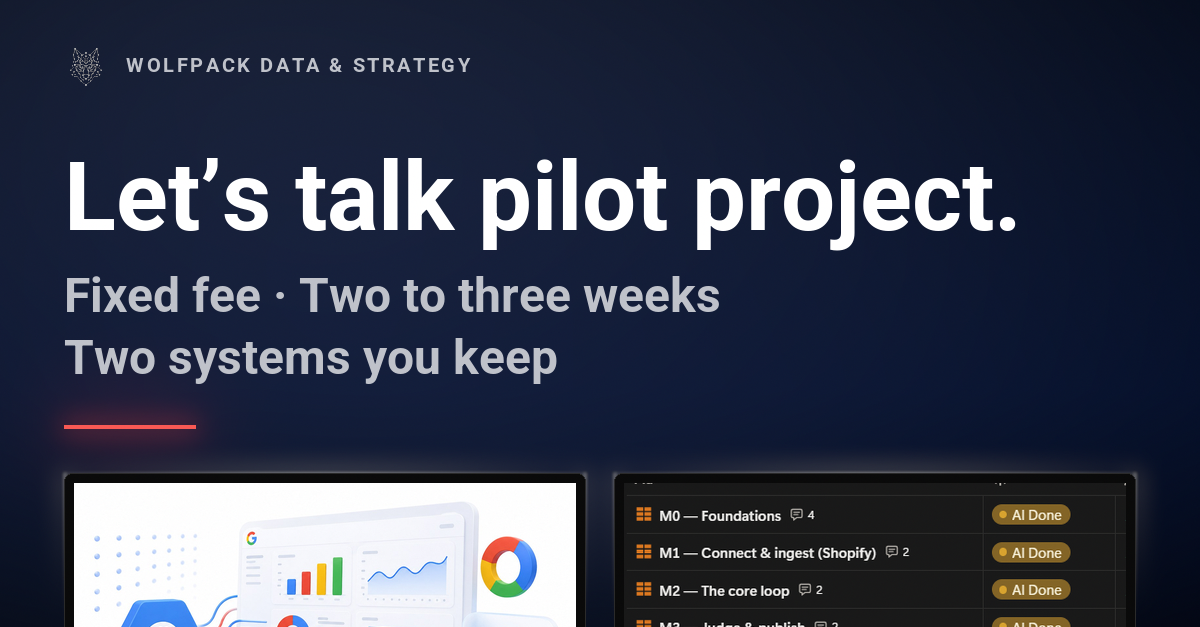
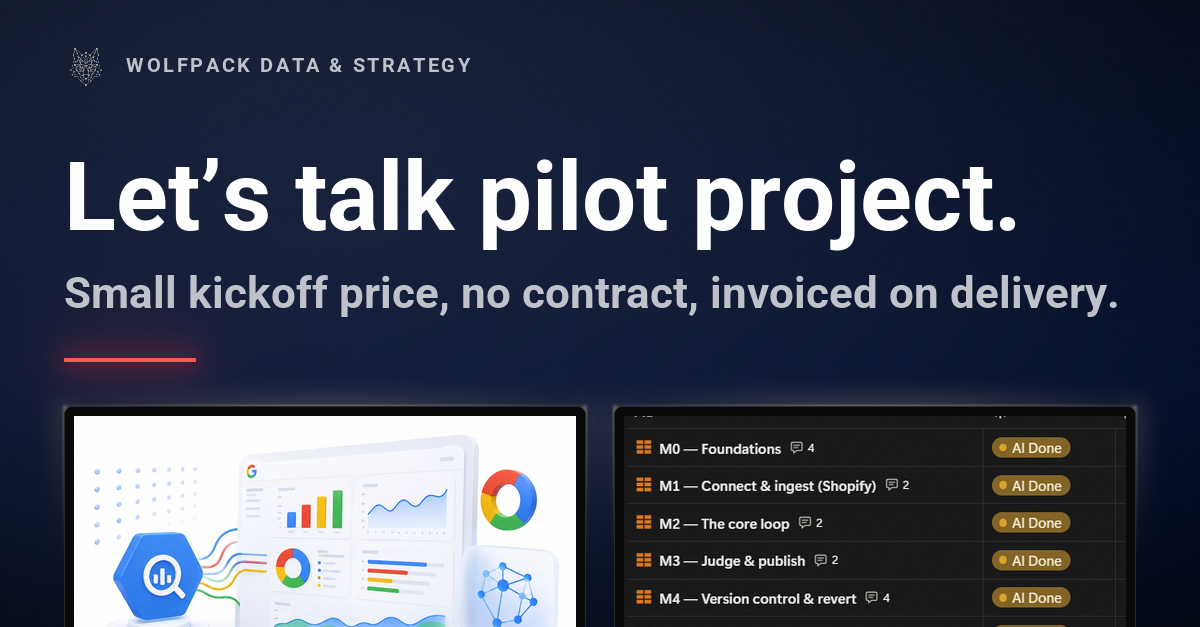
fix(pilot): "hours per week" copy, #296 ruling recorded, pilot card rebuilt with Ry's subtitle (#297) (#298)
Refs #296, #297

Changed region(s): [[0.0308, 0.6061, 0.9558, 1.0], [0.0617, 0.4242, 0.925, 0.5152], [0.0308, 0.5455, 0.4625, 0.6061]]

diff --git a/rates/index.html b/rates/index.html
@@ -145,8 +145,8 @@
             <li><strong>$500 to get started.</strong> The kickoff fee covers your first 6 hours.</li>
             <li><strong>$85 / hour after that</strong> — the pilot rate, billed once at the end of the 30 calendar days.</li>
             <li><strong>You set the ceiling.</strong> Cap the hours, name a deliverable, or both. Past the 6 hours the kickoff covers, there is no minimum.</li>
-            <li><strong>10–20 hours a week is the recommendation</strong> — the range where a significant deliverable or a working system actually gets built inside the window.</li>
-            <li><strong>What that looks like:</strong> 10 hours a week for 30 days works out to about <strong>$2,900</strong> billed at the end.</li>
+            <li><strong>10–20 hours per week is the recommendation</strong> — the range where a significant deliverable or a working system actually gets built inside the window.</li>
+            <li><strong>What that looks like:</strong> 10 hours per week for 30 days works out to about <strong>$2,900</strong> billed at the end.</li>
             <li><strong>Day 31 is an open door.</strong> Roll into a project tier, keep going hourly as needed, or stop — no obligation.</li>
           </ul>
           <p class="pilot__cta"><a class="btn btn--ghost" href="https://intake.wolfstrategyllc.com/pilot-project/">See the pilot project</a></p>

diff --git a/pilot-project/index.html b/pilot-project/index.html
@@ -101,8 +101,8 @@
         <li><strong>$500 to get started.</strong> The kickoff fee covers your first 6 hours.</li>
         <li><strong>$85 an hour after that</strong> &mdash; the pilot rate, billed once at the end of the 30 calendar days.</li>
         <li><strong>You set the ceiling.</strong> Cap the hours, name a deliverable, or both. Past the 6 hours the kickoff covers, there is no minimum.</li>
-        <li><strong>10&ndash;20 hours a week is the recommendation</strong> &mdash; the range where a significant deliverable or a working system actually gets built inside the window.</li>
-        <li><strong>What that looks like:</strong> 10 hours a week for 30 days works out to about <strong>$2,900</strong> billed at the end.</li>
+        <li><strong>10&ndash;20 hours per week is the recommendation</strong> &mdash; the range where a significant deliverable or a working system actually gets built inside the window.</li>
+        <li><strong>What that looks like:</strong> 10 hours per week for 30 days works out to about <strong>$2,900</strong> billed at the end.</li>
         <li><strong>Day 31 is an open door.</strong> Roll into a project tier, keep going hourly as needed, or stop &mdash; no obligation.</li>
       </ul>
     </div>

diff --git a/social-cards/build_cards.py b/social-cards/build_cards.py
@@ -744,24 +744,18 @@ CARDS = [
         # holds, and it is why no fee has ever forced a rebuild here: a price
         # change is a one-line HTML edit.
         #
-        # BUT THIS SUBTITLE IS STALE AS OF 2026-09-06, KNOWINGLY. The offer moved
-        # off the fixed fee to a $500 kickoff covering the first 6 hours, then
-        # $85/hr, over 30 calendar days, and the rates pages no longer list what
-        # the pilot includes. Two of the three phrases below are now false, and
-        # the third ("Two systems you keep") is no longer the page's claim about
-        # what the money buys. A-5 ruled on a FEE change, not a MODEL change, so
-        # it does not cover this one.
-        #
-        # The card is left alone deliberately, awaiting Ry's call on a new
-        # subtitle; a rebuild is then one run of this script. Until that call,
-        # DO NOT edit the page's og:image:alt either -- alt text describes the
-        # card's PIXELS, so moving it before the art moves makes it false (the
-        # hire/ standing since #230). See docs/pilot-project-design-plan.md
-        # (P-001) and CLAUDE.md's pilot-project section.
+        # REBUILT 2026-09-06 with the subtitle Ry named in wp-website#297 after the
+        # offer moved from a fixed fee to a $500 kickoff, $85/hr after six covered
+        # hours, over 30 calendar days. The previous subtitle ("Fixed fee · Two to
+        # three weeks · Two systems you keep") had gone false with the model; A-5
+        # still holds -- the new line names no price, so a fee change stays an HTML
+        # edit. The insets and the title did not change, so og:image:alt (which
+        # describes the pixels) did not need to move. Ledger: P-001/P-002 in
+        # docs/pilot-project-design-plan.md.
         "out": "pilot-project/img/og-pilot-project.png",
         "logo": "pilot-project/img/wolfpack-logo.png",
         "title": "Let’s talk pilot project.",
-        "subtitle": "Fixed fee · Two to three weeks · Two systems you keep",
+        "subtitle": "Small kickoff price, no contract, invoiced on delivery.",
         "max_lines": 2,
         # Both are screenshots and keep framed()'s top anchor — the top of an
         # application window is what identifies it. BQL crops centrally (its

diff --git a/docs/pilot-project-design-plan.md b/docs/pilot-project-design-plan.md
@@ -34,7 +34,7 @@ to it, and the rules the old shape needed are retired with it.
 - **The client sets the ceiling** — cap the hours, name a deliverable, or both; past the 6
   covered hours there is no minimum. This is the page's **new spine**, replacing "one problem,
   scoped together".
-- **10–20 hours a week is the recommendation**, not a commitment.
+- **10–20 hours per week is the recommendation**, not a commitment.
 - **~$2,900** (10 hrs/wk for 30 days) is the **only total-shaped figure allowed anywhere on
   this page**, and it is explicitly an example. There is no total pilot price.
 - **Day 31 is an open door** — roll into a project tier, keep going hourly as needed, or stop.
@@ -78,12 +78,22 @@ heading **"Inside the 30 days"**, and promises no fixed duration of build. The t
 keep their own section: the page still needs an example mapping to neither of them, which only
 means something if the reader knows what they are.
 
-### Open item — the social card is now stale by one ruling
+### Open item — RESOLVED 2026-09-06 (P-002)
 
-`pilot-project/img/og-pilot-project.png` bakes in the subtitle
-**"Fixed fee · Two to three weeks · Two systems you keep"**. Two of those three are now false.
-The card is **untouched by this ruling** — P-001 changed the offer, not the art, and the
-`hire/` standing applies: `og:image:alt` describes the card's *pixels*, so it must not move
-until the art does. A rebuild is one `social-cards/build_cards.py` run once Ry approves a new
-subtitle. **Flagged for Ry — the last place on this property still advertising the old
-model.**
+`pilot-project/img/og-pilot-project.png` baked in the subtitle *"Fixed fee · Two to three weeks ·
+Two systems you keep"*, two of which went false with P-001. Left alone at first (the ruling that the
+card carries no price was about a fee change, not a model change), flagged as wp-website#297, and
+**rebuilt the same day** by `social-cards/build_cards.py` with the subtitle Ry named on #297. The
+insets and the title did not change, so `og:image:alt` (which describes the pixels) stayed put.
+
+## P-002 — two rulings on #296 and #297 (Ry, 2026-09-06)
+
+- **The worked example stays "about $2,900"** (wp-website#296). Read literally, 30 calendar days at
+  10 hours per week is ~42.9 hours, ~36.9 billable — a higher total; the copy follows the 4-week
+  derivation (40 hrs · 6 covered · 34 × $85 = $2,890). Ry chose to keep the approximation and the
+  "about": *"I want to be under $3000 for pricing strategy."* Do not recompute it onto any page.
+- **Card subtitle** (wp-website#297): *"Small kickoff price, no contract, invoiced on delivery."*
+  Price-free, so the no-price-on-the-card ruling still holds and a fee change stays an HTML edit.
+- **Wording:** every "hours a week" on the pilot copy became "hours per week" (Ry, same day) —
+  on both rates pages, the pilot page, and every ledger that quotes them.
+

diff --git a/CLAUDE.md b/CLAUDE.md
@@ -737,7 +737,7 @@ ledger would be a guess wearing the authority of a record. Flagged for Ry.
 **The model, as it now publishes:** **$500 kickoff fee** covering the client's **first 6
 hours** · **$85 / hour after that**, billed once at the end · **30 calendar days**, and
 nothing else billed until they are up · **the client sets the ceiling** (cap the hours, name
-a deliverable, or both; no minimum past the 6 covered hours) · **10–20 hours a week is the
+a deliverable, or both; no minimum past the 6 covered hours) · **10–20 hours per week is the
 recommendation**, never a commitment · **≈ $2,900** for 10 hrs/week is the **only**
 total-shaped figure allowed anywhere, and it is explicitly an example · **day 31 is an open
 door** — a project tier, continued hourly, or stop, with **no post-pilot rate and no fence
@@ -812,15 +812,13 @@ Conventions the page must keep:
 - **The social card carries no price** (Ry, 2026-08-18 — the A-series ruling
   `build_cards.py` cites as A-5), so a fee change is a one-line HTML edit and never a card
   rebuild. Both inset panels are un-carded elsewhere, so no two Featured tiles read as one
-  duplicated post. ⚠ **The card is nonetheless STALE as of 2026-09-06, and knowingly so**
-  (design plan **P-001**, decision **D-011**): its subtitle *"Fixed fee · Two to three weeks
-  · Two systems you keep"* is baked into the pixels and two of those three are now false.
-  A-5 was a ruling about a **fee change**, not a **model change**, so it does not cover this
-  — the card was left alone deliberately, awaiting **Ry's call on a new subtitle**, and a
-  rebuild is then one `build_cards.py` run. Until then, **do not edit `og:image:alt`**: it
-  describes the card's *pixels*, and moving it first would make it false (the `hire/`
-  standing since #230). This is the last place on the property still advertising the old
-  model — flagged for Ry.
+  duplicated post. The card **was rebuilt on 2026-09-06** (#297, design plan **P-002**) after
+  the model change made its old subtitle false; the subtitle now reads *"Small kickoff price,
+  no contract, invoiced on delivery."* — still price-free, so A-5 holds. `og:image:alt` did not
+  move because the insets and title did not (alt describes the pixels — the `hire/` standing).
+- **The worked example stays "about $2,900" by ruling** (#296, Ry 2026-09-06). Dividing 30 days by
+  10 hours per week gives a higher figure; the copy follows the 4-week derivation and Ry
+  wants the example under $3,000. Do not "correct" it on any of the three pages.
 
 **The pilot section on the rates pages (restructured 2026-09-06, #283 here,
 `wp-rates-page#50` upstream).** Both rates pages carried a full-width **band** offering the

diff --git a/CHANGELOG.md b/CHANGELOG.md
@@ -153,6 +153,13 @@ reaches the public only as a copy into `wolfpackdata/ai-coaching-intake`.
 
 ### Changed
 
+- **The pilot social card is rebuilt** with Ry's new subtitle — *"Small kickoff price, no
+  contract, invoiced on delivery."* — replacing the fixed-fee, two-to-three-week line that the
+  model change had made false. Still no price in the image; `og:image:alt` unchanged because the
+  insets and title did not move. (#297)
+- **Pilot copy says "hours per week", not "hours a week"**, on both rates pages and the pilot
+  page (Ry, 2026-09-06). The worked example stays *"about $2,900"* by ruling — Ry wants it under
+  $3,000 — rather than being recomputed to 30 calendar days. (#296)
 - **The 2026 reprice lands on the public rates page.** Hourly goes **$175 → $135**, and the
   three project tiers go **$13,400 / $16,200 / $18,100 → $10,800 / $12,400 / $13,500** at
   effective rates of **$125 / $115 / $105** an hour. Reserved time and contract lengths are
@@ -172,7 +179,7 @@ reaches the public only as a copy into `wolfpackdata/ai-coaching-intake`.
   may state hours, a weekly commitment, or an effective hourly rate for the pilot, and the
   disarm sentence that carried it — *"a pilot buys a scoped outcome rather than reserved time,
   so it sits off the rate curve above"* — both go with it. The **~$2,900** worked example (10
-  hours a week for 30 days) is the only figure of that shape on either page; there is still no
+  hours per week for 30 days) is the only figure of that shape on either page; there is still no
   total pilot price. (#283, #284 / PRs #292, #291)
 - **`pilot-project/` rewritten to the $500 kickoff model.** Every load-bearing fact on that
   page — fixed fee, no hours, two to three weeks — was false under the new model, so the

diff --git a/docs/public-rates-design-spec.md b/docs/public-rates-design-spec.md
@@ -174,9 +174,11 @@ keeps its id.
 2. **$85 / hour after that** — the pilot rate, billed once at the end of the **30 calendar days**.
 3. **You set the ceiling** — cap the hours, name a deliverable, or both; past the 6 covered
    hours there is no minimum.
-4. **10–20 hours a week is the recommendation** — the range where a real deliverable gets
+4. **10–20 hours per week is the recommendation** — the range where a real deliverable gets
    built inside the window. A recommendation, never a commitment.
-5. **The worked example** — 10 hours a week for 30 days is about **$2,900** billed at the end.
+5. **The worked example** — 10 hours per week for 30 days is about **$2,900** billed at the end.
+   Kept at "about $2,900" by Ry's ruling on #296 (2026-09-06): the 4-week derivation stands and the
+   example stays under $3,000 by pricing strategy; do not recompute it to 30 days.
 6. **Day 31 is an open door** — a project tier, continued hourly, or stop.
 
 **Guardrails, all of them rules rather than preferences:** list **no inclusions** (no named

diff --git a/docs/public-rates-consistency-contract.md b/docs/public-rates-consistency-contract.md
@@ -78,8 +78,10 @@ sync is a prompted, manual port (see §3).
 
   **The six facts that must match exactly:** the **$500 kickoff fee** · it **covers the first
   6 hours** · **$85 / hour after that**, billed once at the end · **30 calendar days** ·
-  **10–20 hours a week is the recommendation** · the worked example, **≈ $2,900** billed at
-  the end for 10 hrs/week. **Placement is mirrored too**: `#pilot` immediately before the
+  **10–20 hours per week is the recommendation** · the worked example, **≈ $2,900** billed at
+  the end for 10 hrs/week — kept as the 4-week approximation by Ry's ruling on wp-website#296
+  (2026-09-06; he wants the example under $3,000), never recomputed to 30 days.
+  **Placement is mirrored too**: `#pilot` immediately before the
   projects section (the first pricing on the page), `Pilot project` as the first nav item, and a
   single **navy-ghost** CTA — *"See the pilot project"* — linking
   `https://intake.wolfstrategyllc.com/pilot-project/`. Never coral: the ration in
